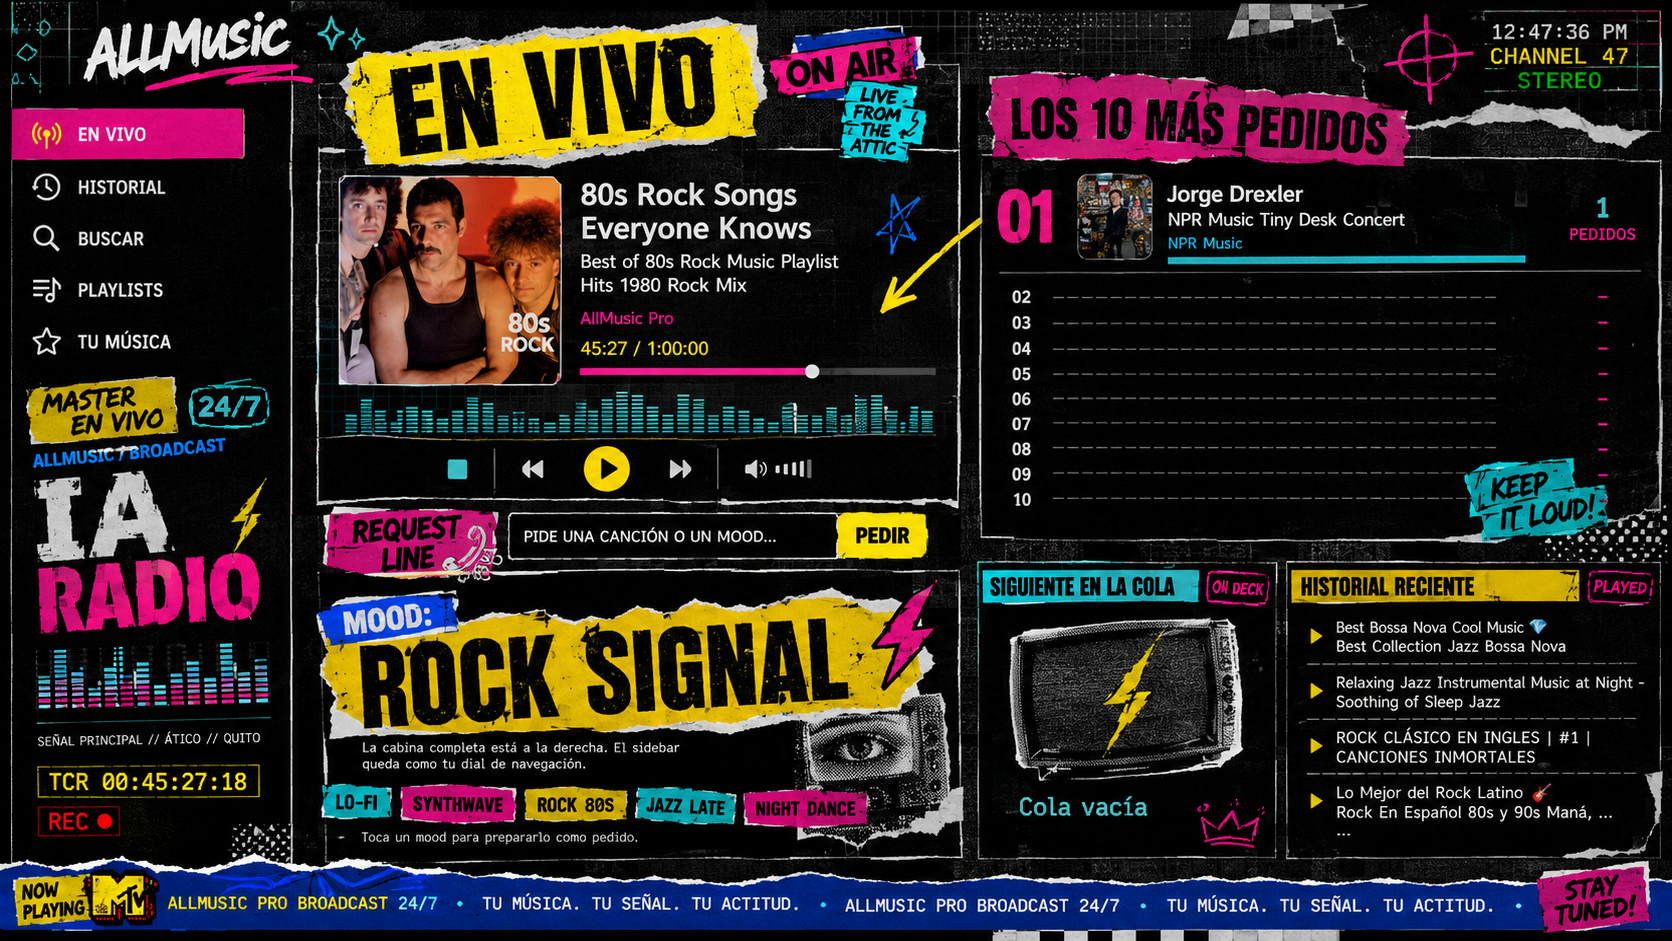
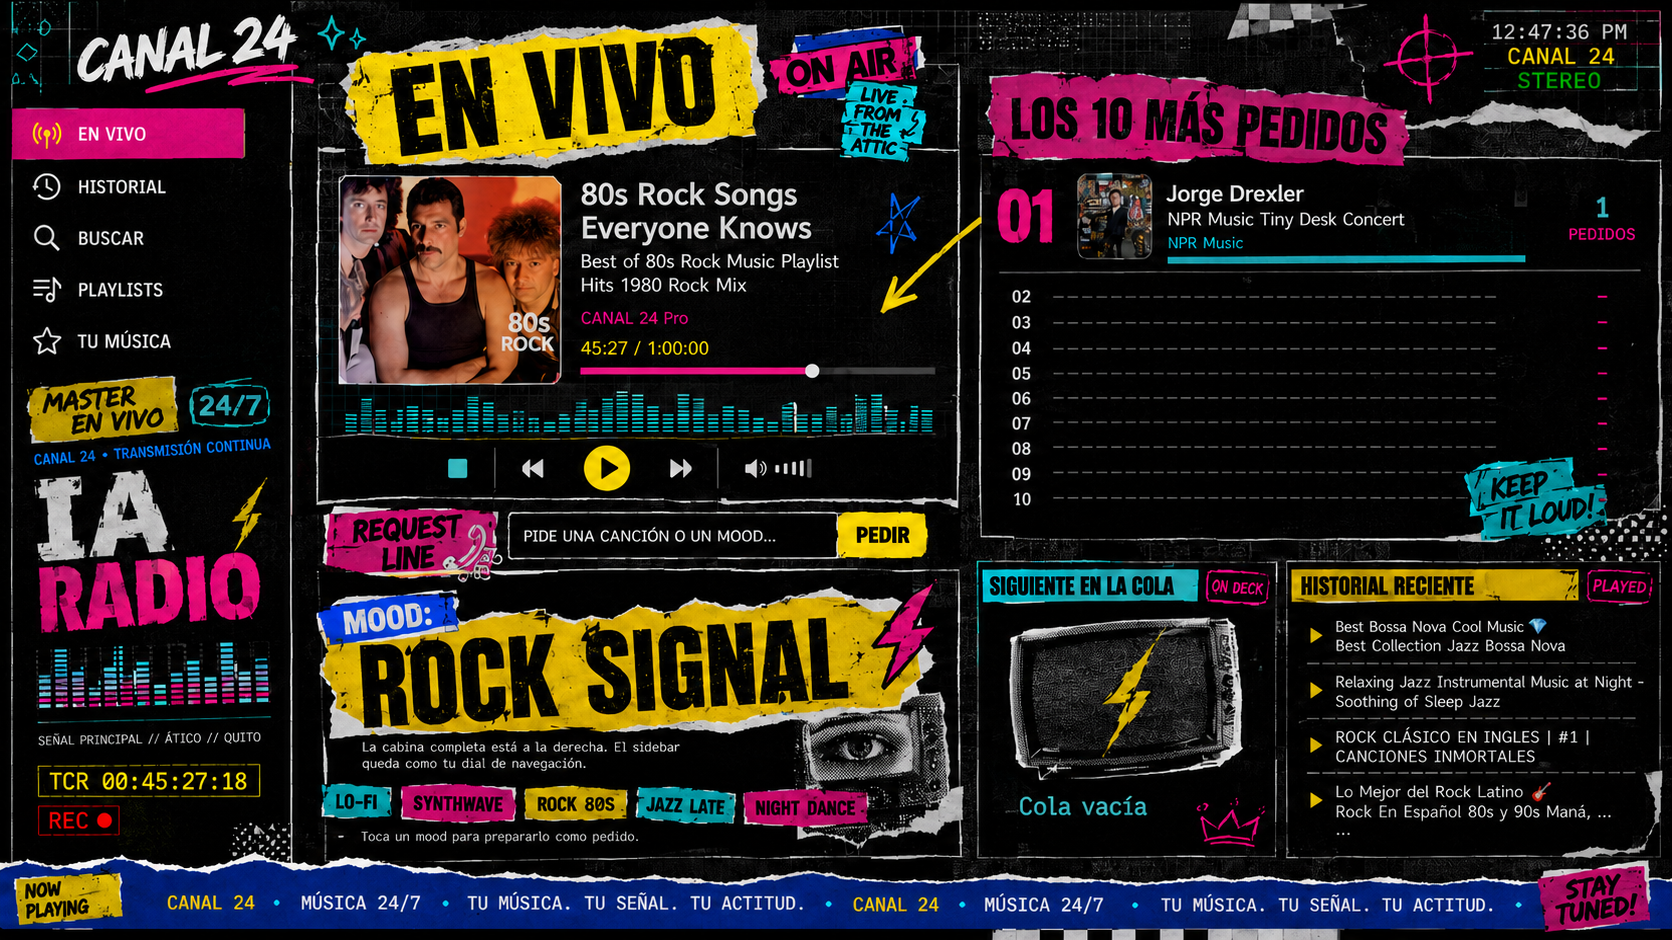
Use exact C24 mockup assets in integrated IA Radio

diff --git a/frontend/radio.html b/frontend/radio.html
@@ -4,7 +4,7 @@
 <meta charset="UTF-8">
 <meta name="viewport" content="width=device-width, initial-scale=1.0">
 <meta name="theme-color" content="#050505">
-<title>AllMusic Radio · En Vivo</title>
+<title>C24 Radio · En Vivo</title>
 <style>
 @import url('https://fonts.googleapis.com/css2?family=Bangers&family=Permanent+Marker&family=Roboto+Condensed:wght@400;500;700;900&display=swap');
 
@@ -46,7 +46,7 @@ a{color:inherit}
   width:100%;
   height:100%;
   display:block;
-  object-fit:fill;
+  object-fit:contain;
   user-select:none;
   pointer-events:none;
 }
@@ -547,11 +547,180 @@ body.radio-ready.has-history-data .dynamic-history{opacity:1;pointer-events:auto
   .accessibility-data{position:absolute}
 }
 
+
+/* C24 RADIO / EXACT MOCKUP ARTBOARD */
+html,body{
+  width:100%;
+  height:100%;
+  min-height:100%;
+  background:#050505;
+}
+body{
+  display:grid;
+  place-items:center;
+  overflow:hidden;
+}
+.radio-artboard{
+  width:min(100vw,calc(100vh * 1672 / 940));
+  height:min(100vh,calc(100vw * 940 / 1672));
+  aspect-ratio:1672 / 940;
+  min-height:0;
+  overflow:hidden;
+  padding:0;
+  background:#050505;
+}
+.reference-art{
+  position:absolute;
+  inset:0;
+  width:100%;
+  height:100%;
+  min-height:0;
+  opacity:1;
+  object-fit:contain;
+}
+.radio-artboard::before,
+.radio-artboard::after{
+  display:none!important;
+}
+@media(max-width:900px){
+  body{
+    display:grid;
+    place-items:center;
+    overflow:hidden;
+  }
+  .radio-artboard{
+    width:min(100vw,calc(100vh * 1672 / 940));
+    height:min(100vh,calc(100vw * 940 / 1672));
+    min-height:0;
+    padding:0;
+  }
+  .reference-art{
+    position:absolute;
+    inset:0;
+    width:100%;
+    height:100%;
+    min-height:0;
+    opacity:1;
+    object-fit:contain;
+  }
+  .radio-artboard::before,
+  .radio-artboard::after{
+    display:none!important;
+  }
+  .hit-live,
+  .hit-history,
+  .hit-search,
+  .hit-playlists,
+  .hit-music,
+  .hit-refresh{
+    display:block;
+  }
+  .hit-listen{
+    left:34.8%;
+    top:47%;
+    width:3.7%;
+    height:6.2%;
+    transform:none;
+    border:0;
+    border-radius:0;
+    background:transparent;
+  }
+  .hit-advance{
+    left:40.1%;
+    top:47%;
+    width:3.4%;
+    height:6.2%;
+    transform:none;
+  }
+  .hit-request{
+    left:30.3%;
+    top:54.25%;
+    width:35.7%;
+    height:5.1%;
+    margin:0;
+    border:0;
+    background:transparent;
+  }
+  .hit-request input{
+    font-size:clamp(10px,1.05vw,17px);
+  }
+  .hit-request input::placeholder{
+    color:transparent;
+  }
+  .hit-request button{
+    color:transparent;
+  }
+  .dynamic-cover{
+    position:absolute;
+    left:20.2%;
+    top:18.25%;
+    width:13.55%;
+    height:22.7%;
+    margin:0;
+  }
+  .dynamic-live-copy{
+    position:absolute;
+    left:34.5%;
+    top:18.75%;
+    width:23.2%;
+    height:20.55%;
+    margin:0;
+  }
+  .dynamic-progress{
+    position:absolute;
+    left:34.5%;
+    top:39.25%;
+    width:21.25%;
+    height:.75%;
+    margin:0;
+  }
+  .dynamic-top{
+    position:absolute;
+    left:59.8%;
+    top:18.3%;
+    width:39.1%;
+    height:37.7%;
+    margin:0;
+  }
+  .dynamic-mood{
+    position:absolute;
+    left:20.1%;
+    top:68.5%;
+    width:35.7%;
+    height:14.1%;
+    margin:0;
+  }
+  .mood-chips-hit{
+    position:absolute;
+    left:19.3%;
+    top:83.5%;
+    width:34.6%;
+    height:4.1%;
+    margin:0;
+  }
+  .dynamic-queue{
+    position:absolute;
+    left:58.55%;
+    top:65.1%;
+    width:18.3%;
+    height:25.6%;
+    margin:0;
+  }
+  .dynamic-history{
+    position:absolute;
+    left:77.25%;
+    top:65.1%;
+    width:21.15%;
+    height:25.6%;
+    margin:0;
+  }
+}
+
 </style>
 </head>
 <body>
-<main class="radio-artboard" aria-label="AllMusic Radio 24/7">
-  <img class="reference-art" src="./assets/radio/radio-reference.png" alt="Interfaz visual de AllMusic Radio">
+<main class="radio-artboard" aria-label="C24 Radio 24/7">
+  <img class="reference-art" src="./assets/radio/radio-reference.png" alt="Mockup exacto de C24 Radio">
 
   <nav aria-label="Navegación de la radio">
     <a class="hotspot hit-live" href="#live" aria-label="En vivo"></a>
@@ -574,7 +743,7 @@ body.radio-ready.has-history-data .dynamic-history{opacity:1;pointer-events:auto
   <div class="dynamic-live-copy" aria-live="polite">
     <div class="now-title" id="title">80s Rock Songs Everyone Knows</div>
     <div class="now-artist" id="artist">Best of 80s Rock Music Playlist</div>
-    <div class="now-station">AllMusic Pro</div>
+    <div class="now-station">CANAL 24 Pro</div>
     <div class="now-time"><span id="elapsed">45:27</span><span>/</span><span id="duration">1:00:00</span></div>
   </div>
   <div class="dynamic-progress" aria-hidden="true"><i id="barFill"></i></div>
@@ -625,6 +794,11 @@ body.radio-ready.has-history-data .dynamic-history{opacity:1;pointer-events:auto
 const RADIO_API_BASE=location.pathname.startsWith('/allmusic')?'/allmusic/radio':'/radio';
 const fmt = s => { s=Math.max(0,Math.floor(s||0)); const m=Math.floor(s/60)%60,h=Math.floor(s/3600),x=s%60; return (h>0?h+':':'')+String(m).padStart(Math.max(2,h?2:1),'0')+':'+String(x).padStart(2,'0'); };
 const radioAudio=document.getElementById('radioAudio');
+const RADIO_FALLBACK='./assets/radio/radio-now-cover.png';
+function bindRadioFallback(img){
+  if(!img)return;
+  img.onerror=()=>{img.onerror=null;img.src=RADIO_FALLBACK;};
+}
 const LS_RADIO_LISTENING='allmusic_radio_listening';
 let radioStreamUrl='';
 let radioListening=localStorage.getItem(LS_RADIO_LISTENING)==='1';
@@ -705,13 +879,13 @@ function renderState(d){
     badge.className='badge live'; badge.querySelector('#stateText').textContent='En vivo';
     const t=d.track||{};
     const thumb=document.getElementById('thumb');
-    const fallback='./assets/radio/radio-now-cover.png';
+    const fallback=RADIO_FALLBACK;
     const remoteFallback=t.video_id?'https://i.ytimg.com/vi/'+(t.video_id||'')+'/hqdefault.jpg':fallback;
     thumb.src=(t.thumbnail&&t.thumbnail.startsWith('http'))?t.thumbnail:remoteFallback;
     thumb.onerror=()=>{ if(thumb.src!==fallback) thumb.src=fallback; };
     document.getElementById('title').textContent=t.title||'—';
-    document.getElementById('artist').textContent=t.artist||t.uploader||'AllMusic';
-    setTicker((t.title||'AllMusic Radio')+' // '+(t.artist||t.uploader||'AllMusic'));
+    document.getElementById('artist').textContent=t.artist||t.uploader||'C24';
+    setTicker((t.title||'C24 Radio')+' // '+(t.artist||t.uploader||'C24'));
     const el=document.getElementById('elapsed'), du=document.getElementById('duration');
     window._nowElapsed=t.elapsed||0;
     el.textContent=fmt(t.elapsed||0);
@@ -719,7 +893,7 @@ function renderState(d){
     document.getElementById('barFill').style.width=Math.min(100,((t.elapsed||0)/(t.duration||1))*100)+'%';
   } else {
     badge.className='badge paused'; badge.querySelector('#stateText').textContent='En pausa';
-    setTicker('SEÑAL EN ESPERA // ALLMUSIC RADIO 24/7');
+    setTicker('SEÑAL EN ESPERA // CANAL 24 RADIO 24/7');
   }
   const q=document.getElementById('queueList');
   const queue=d.queue||[];
@@ -727,6 +901,7 @@ function renderState(d){
   document.getElementById('queueCount').textContent=queue.length?String(queue.length).padStart(2,'0')+' EN COLA':'COLA VACÍA';
   if(!queue.length){ q.innerHTML='<li class="empty">La cola está vacía.</li>'; }
   else q.innerHTML=queue.map((x,i)=>`<li class="q"><span class="n">${String(i+1).padStart(2,'0')}</span><img src="${(x.thumbnail&&x.thumbnail.startsWith('http'))?x.thumbnail:'https://i.ytimg.com/vi/'+(x.video_id||'')+'/hqdefault.jpg'}" alt=""><span style="min-width:0"><div class="tit">${escapeHtml(x.title||'')}</div><div class="sub">${escapeHtml(x.artist||'')}${x.suggested_by?' · '+escapeHtml(x.suggested_by):''}${x.eta_minutes!=null?' · '+(x.eta_minutes<1?'menos de 1 min':x.eta_minutes+' min'):''}</div></span></li>`).join('');
+  q.querySelectorAll('img').forEach(bindRadioFallback);
   const h=document.getElementById('historyList');
   document.body.classList.toggle('has-history-data',!!(d.history&&d.history.length));
   if(!d.history||!d.history.length){ h.innerHTML='<li class="empty">Todavía no hay historial.</li>'; }
@@ -751,7 +926,7 @@ async function loadRadio(){
 }
 
 function setTicker(text){
-  const value=String(text||'ALLMUSIC RADIO // 24/7').trim();
+  const value=String(text||'CANAL 24 RADIO // 24/7').trim();
   const first=document.getElementById('tickerText');
   const clone=document.getElementById('tickerTextClone');
   if(first)first.textContent=value;
@@ -784,18 +959,19 @@ function renderTopRequested(list){
       '<img src="'+topRequestedThumb(item)+'" alt="" loading="lazy">' +
       '<span class="requested-info">' +
         '<strong>'+escapeHtml(item.title||'Sin título')+'</strong>' +
-        '<small>'+escapeHtml(item.artist||'AllMusic')+'</small>' +
+        '<small>'+escapeHtml(item.artist||'C24')+'</small>' +
         '<span class="requested-meter" aria-hidden="true"><i style="width:'+width+'%"></i></span>' +
       '</span>' +
       '<span class="requested-count"><b>'+count+'</b><small>PEDIDOS</small></span>' +
     '</li>';
   }).join('');
+  panel.querySelectorAll('img').forEach(bindRadioFallback);
 }
 
 function renderMood(d){
   const track=d&&d.track||{};
   const source=(String(track.reason||'')+' '+String(track.title||'')).toLowerCase();
-  let label=d&&d.playing?'ALLMUSIC MIX':'SIGNAL STANDBY';
+  let label=d&&d.playing?'CANAL 24 MIX':'SIGNAL STANDBY';
   let detail=d&&d.playing?'La señal está activa. El mood se infiere de la programación actual.':'La cabina está lista para recibir el próximo pedido.';
   if(/jazz|piano|bossa/.test(source)){
     label='JAZZ LATE';
@@ -817,7 +993,7 @@ function renderMood(d){
     detail='Amplificadores encendidos y clásicos con voltaje de radio.';
   }else if(/k-pop/.test(source)){
     label='K-POP MODE';
-    detail='Pop de alto voltaje en la rotación de AllMusic.';
+    detail='Pop de alto voltaje en la rotación de C24.';
   }
   const value=document.getElementById('moodValue');
   const copy=document.getElementById('moodDetail');

diff --git a/frontend/modern_index.html b/frontend/modern_index.html
@@ -2064,6 +2064,63 @@
                 grid-template-columns:auto minmax(0,1fr) auto minmax(175px,auto) minmax(92px,auto);
             }
         }
+
+/* C24 RADIO / INTEGRATED VIEW USES THE EXACT MOCKUP ARTBOARD */
+.radio-integrated-frame{
+    display:none;
+}
+body.radio-active{
+    overflow:hidden!important;
+    background:#050505!important;
+}
+body.radio-active .app{
+    display:block!important;
+    width:100vw!important;
+    height:100vh!important;
+}
+body.radio-active .left-panel,
+body.radio-active .right-panel > .player-shell,
+body.radio-active .app-footer{
+    display:none!important;
+}
+body.radio-active .right-panel{
+    position:fixed!important;
+    inset:0!important;
+    width:100vw!important;
+    height:100vh!important;
+    min-width:0!important;
+    margin:0!important;
+    padding:0!important;
+    overflow:hidden!important;
+    background:#050505!important;
+    z-index:9990!important;
+}
+body.radio-active .radio-stage{
+    display:block!important;
+    position:fixed!important;
+    inset:0!important;
+    width:100vw!important;
+    height:100vh!important;
+    min-height:0!important;
+    margin:0!important;
+    padding:0!important;
+    overflow:hidden!important;
+    background:#050505!important;
+    z-index:9999!important;
+}
+body.radio-active .radio-stage > *:not(.radio-integrated-frame){
+    display:none!important;
+}
+body.radio-active .radio-integrated-frame{
+    display:block!important;
+    position:absolute!important;
+    inset:0!important;
+    width:100%!important;
+    height:100%!important;
+    border:0!important;
+    background:#050505!important;
+}
+
 </style>
 </head>
 <body>
@@ -2258,7 +2315,9 @@
     <!-- ══ RIGHT PANEL / PLAYER ══ -->
     <div class="right-panel">
 
-        <section class="radio-stage" id="radioStage" aria-label="IA Radio 24/7">
+        <section class="radio-stage" id="radioStage" aria-label="C24 Radio 24/7">
+            <!-- C24 keeps one source of truth: the exact mockup artboard and its local PNG fallback live in radio.html. -->
+            <iframe class="radio-integrated-frame" src="./radio.html?embedded=1" title="C24 Radio · En vivo" data-cover-fallback="./assets/radio/radio-now-cover.png"></iframe>
             <div class="radio-ticker" aria-label="Estado de la transmisión">
                 <span class="radio-ticker-label">NOW PLAYING</span>
                 <span class="radio-ticker-copy" id="radioTicker">ALLMUSIC RADIO · SEÑAL CONTINUA</span>
@@ -2569,7 +2628,7 @@ function switchTab(t){
     document.querySelectorAll('.tab-btn').forEach((b,i)=>b.classList.toggle('active',['history','search','playlists','mymusic','radio'][i]===t));
     document.querySelectorAll('.tab-pane').forEach(p=>p.classList.remove('active'));
     document.getElementById('pane-'+t).classList.add('active');
-    if(t==='radio'&&typeof radioRefresh==='function')radioRefresh();
+    if(t==='radio'){const frame=document.querySelector('.radio-integrated-frame');if(frame)frame.focus();}
     document.querySelector('.cfg-gear').classList.remove('active');
     if(t==='mymusic') myMusicRefresh();
 }
